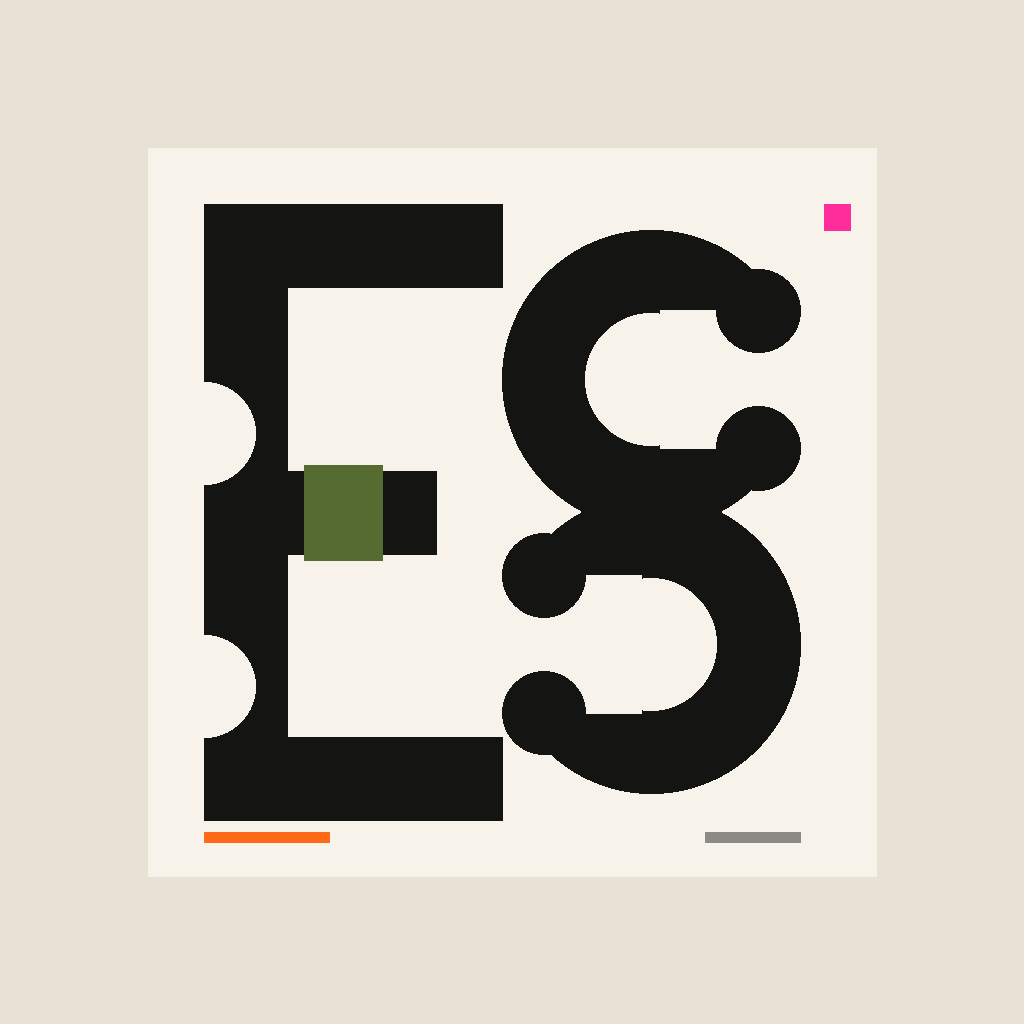
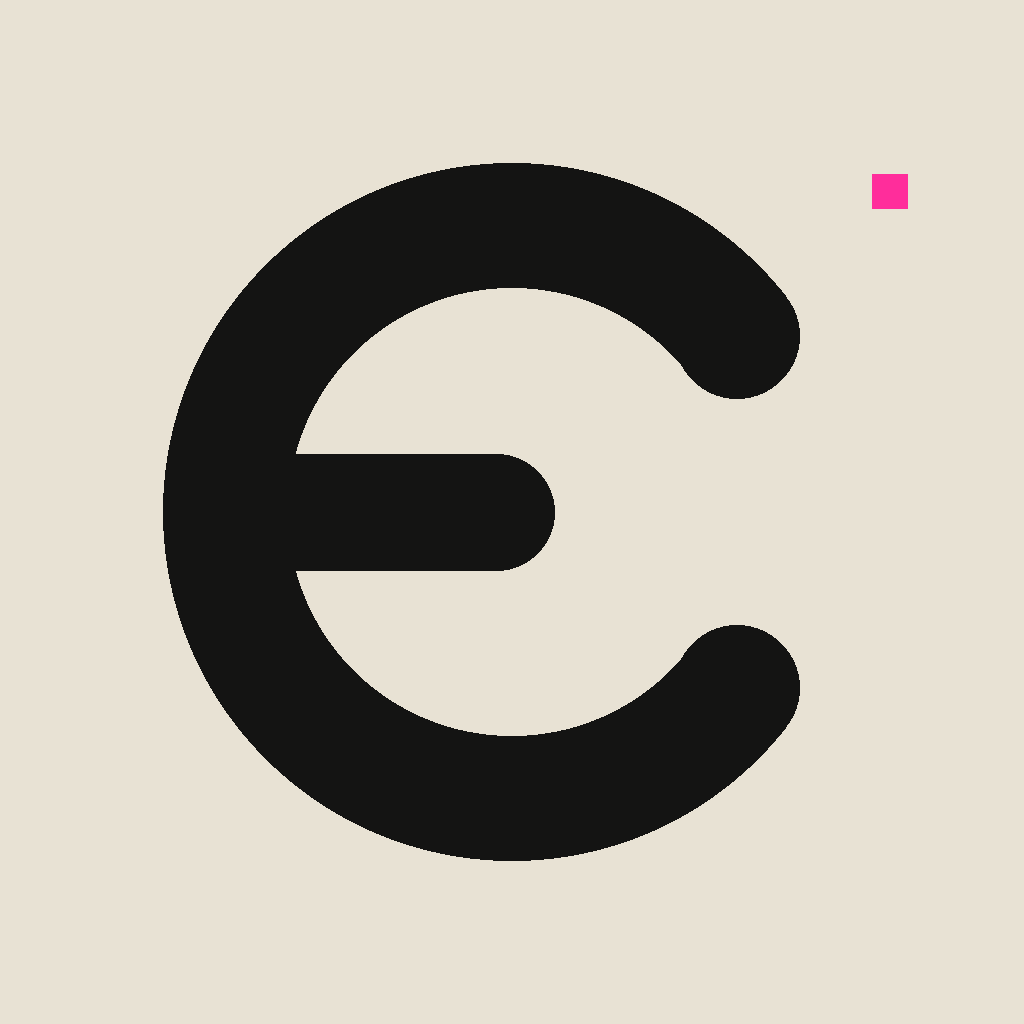
Redraw Echo Studio as a geometric e mark plus Studio lockup.
Match the 20 Studio icon-plus-word layout and Monetto's rounded
geometric type: circular e, Outfit Studio, fluorescent pink tick.

diff --git a/frontend/src/index.css b/frontend/src/index.css
@@ -284,43 +284,35 @@ input, select, textarea {
 
 .brand-seal {
   display: block;
-  width: min(18rem, 100%);
+  width: min(22rem, 100%);
   height: auto;
-  aspect-ratio: 1;
+  aspect-ratio: auto;
   border-radius: 0;
   object-fit: contain;
   box-shadow: none;
   background: transparent;
 }
 .brand-seal-sm {
-  width: 3rem;
-  height: 3rem;
+  width: 2.85rem;
+  height: 2.85rem;
   aspect-ratio: 1;
   border-radius: 8px;
   background: #e8e2d4;
 }
 .brand-lockup {
   display: flex;
-  flex-direction: column;
-  gap: 2px;
+  align-items: baseline;
+  gap: 0;
   min-width: 0;
-}
-.brand-lockup .echo {
-  font-family: Anton, Outfit, sans-serif;
-  font-size: 1.45rem;
-  letter-spacing: -0.04em;
-  line-height: 0.82;
-  text-transform: uppercase;
-  color: var(--ink);
 }
 .brand-lockup .studio {
   font-family: Outfit, sans-serif;
-  font-size: 0.58rem;
-  font-weight: 700;
-  letter-spacing: 0.34em;
+  font-size: 1.7rem;
+  font-weight: 800;
+  letter-spacing: -0.045em;
   line-height: 1;
-  color: var(--olive);
-  text-transform: uppercase;
+  text-transform: none;
+  color: var(--ink);
 }
 .slogan {
   margin-top: 0.35rem;

diff --git a/frontend/src/App.jsx b/frontend/src/App.jsx
@@ -615,8 +615,7 @@ export default function App() {
         <img src="/mark.png" alt="" className="brand-seal brand-seal-sm shrink-0" />
         <div className="min-w-0 flex-1">
           <div className="brand-lockup">
-            <span className="echo">ECHO</span>
-            <span className="studio">STUDIO</span>
+            <span className="studio">Studio</span>
           </div>
           <div className="slogan slogan-inline">{tr("tagShort")}</div>
           <div className="text-xs text-[var(--mute)] truncate">

diff --git a/frontend/public/sw.js b/frontend/public/sw.js
@@ -1,4 +1,4 @@
-const CACHE = "echoo-v8";
+const CACHE = "echoo-v9";
 
 self.addEventListener("install", (event) => {
   event.waitUntil(
